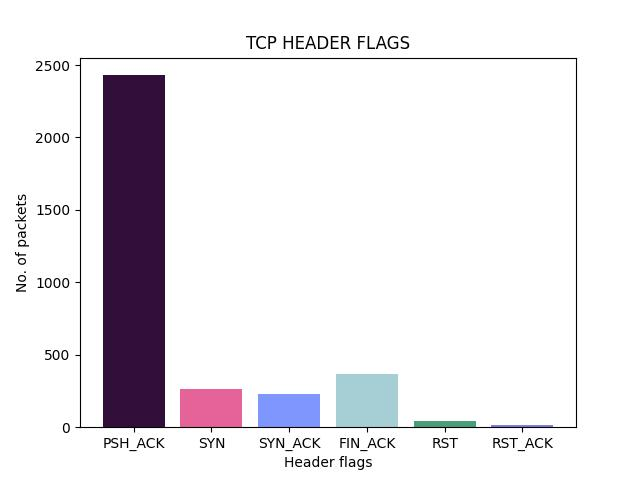
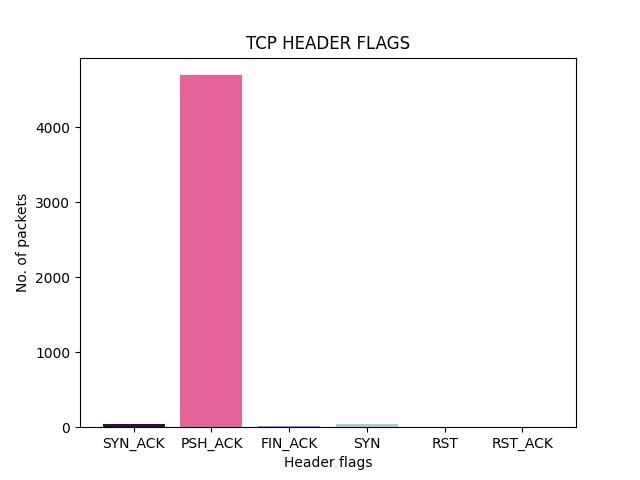
removed exception

diff --git a/project.py b/project.py
@@ -2,12 +2,13 @@ import pyshark
 import matplotlib.pyplot as plt
 import numpy as np
 import sys
+import nest_asyncio
 
 def tcp_header_flags():
     
     dict = {}
     colors = ['#320e3b', '#e56399', '#7f96ff', '#a6cfd5', '#49a078', '#7D80DA', '#993955', '#db4c40', '#783F8E', '#343F3E']
-    cap = pyshark.FileCapture(r'C:/Users/anush/temp/ult.pcapng')
+    cap = pyshark.FileCapture(r'C:/Users/anush/temp/tester.pcapng')
     for pkt in cap:
         #x = pkt.tcp
         if pkt.transport_layer != 'TCP':
@@ -53,7 +54,7 @@ def tcp_header_flags():
 def transport_protocols():
     dict = {}
     colors = ['#db4c40', '#783F8E', '#343F3E']
-    cap = pyshark.FileCapture(r'C:/Users/anush/temp/ult.pcapng')
+    cap = pyshark.FileCapture(r'C:/Users/anush/temp/tester.pcapng')
     for pkt in cap:
         protocol = pkt.transport_layer
         if protocol == 'TCP':
@@ -74,5 +75,6 @@ def transport_protocols():
 
 if __name__ == "__main__":
     sys.tracebacklimit = 0
+    nest_asyncio.apply()
     tcp_header_flags()
     transport_protocols()
